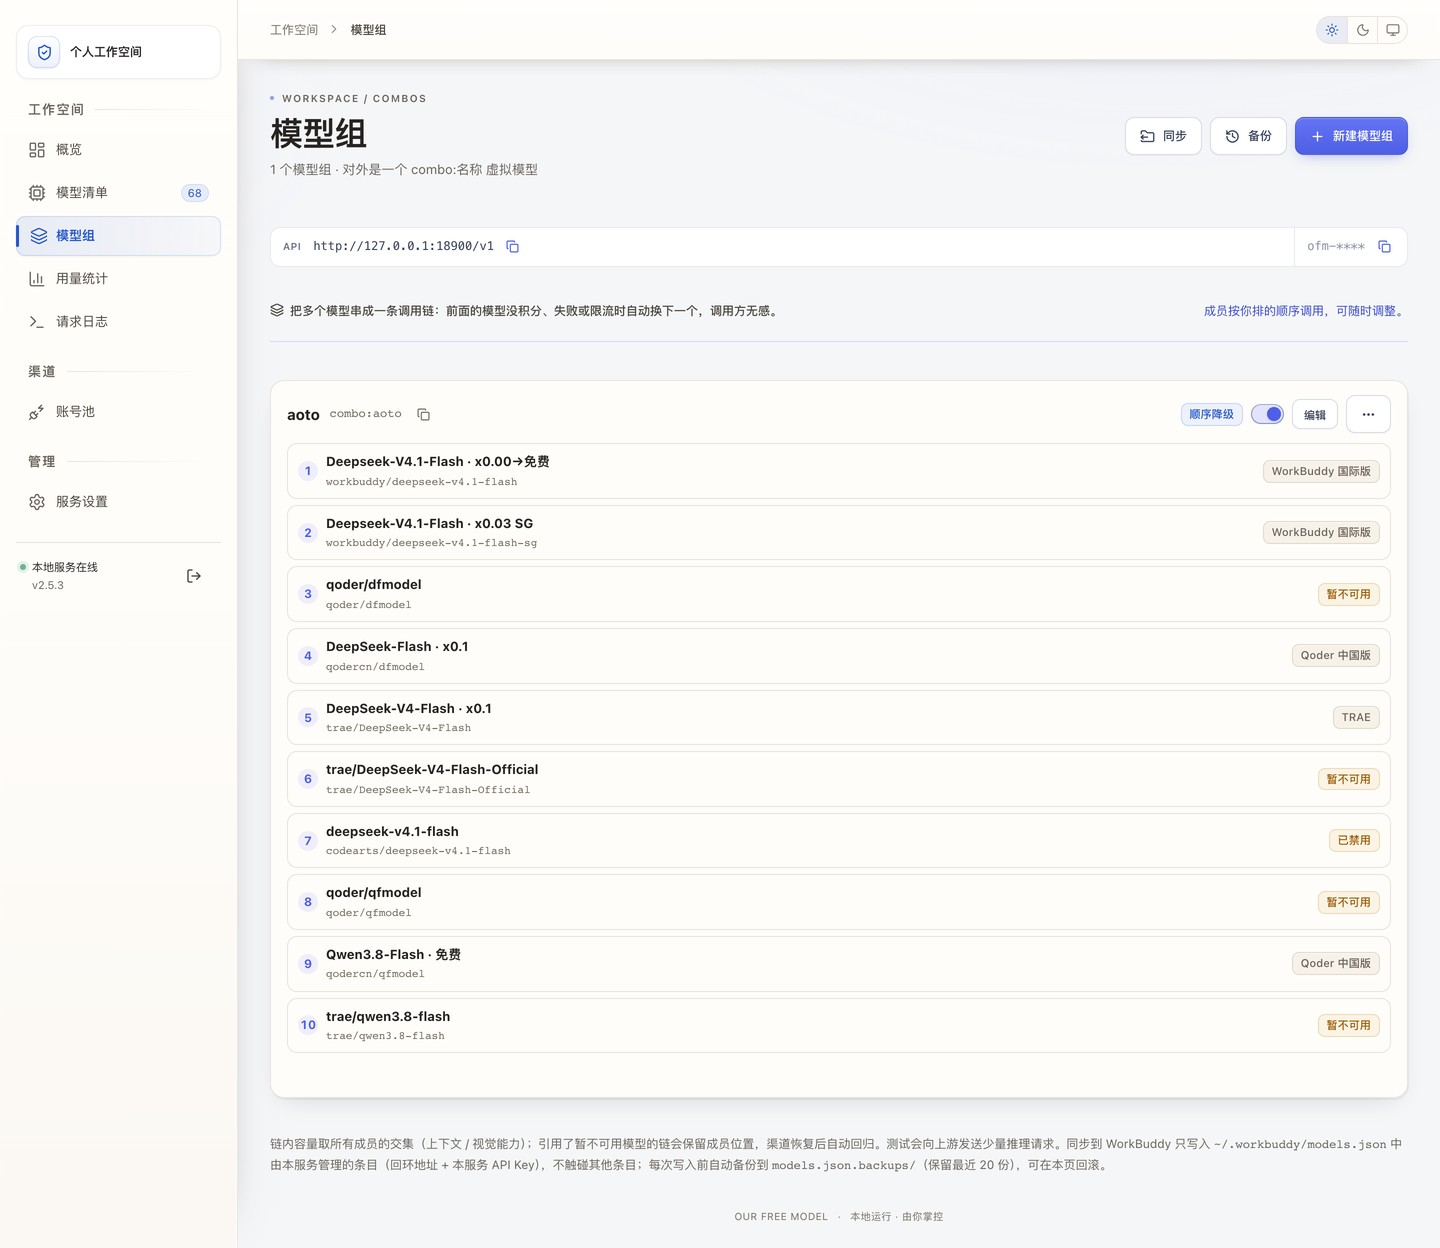
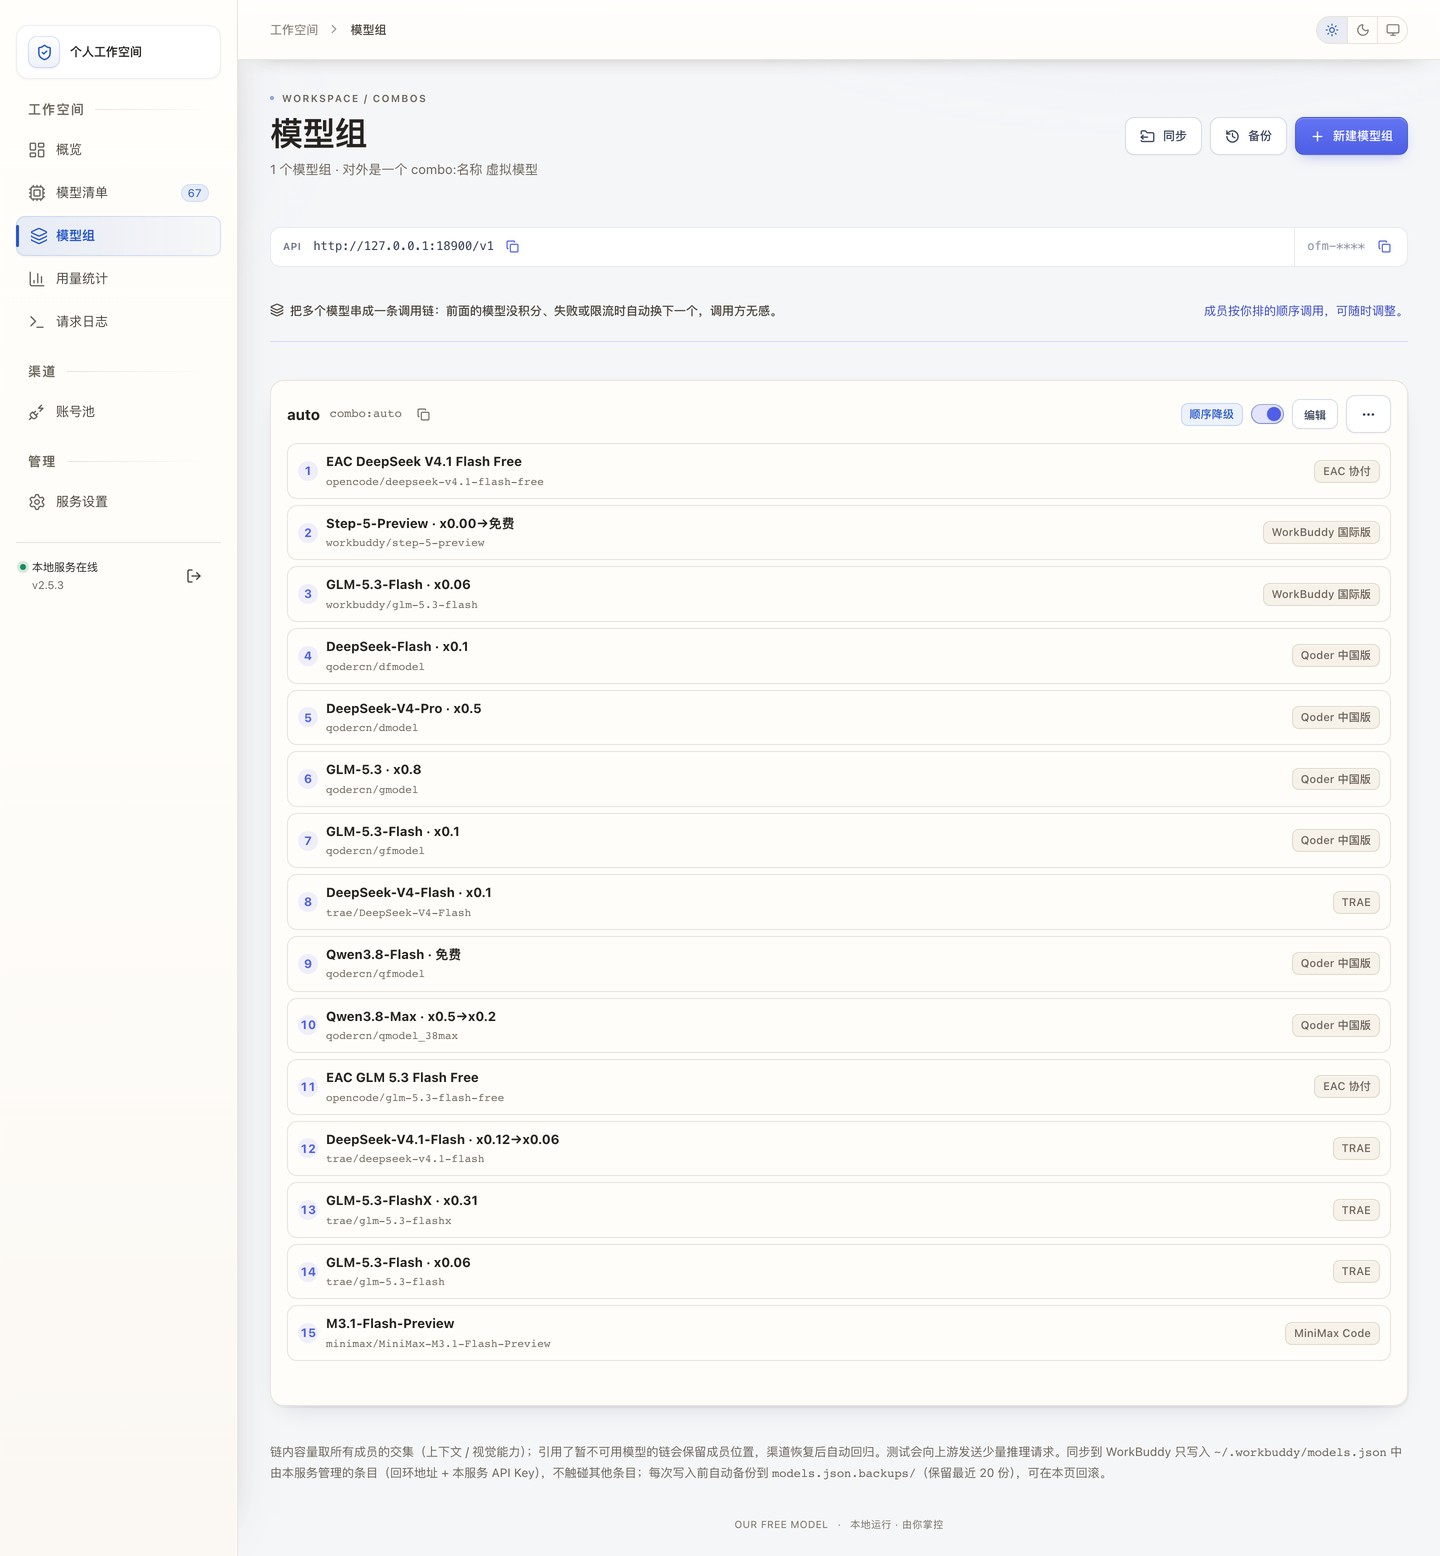
docs(images): 重截模型组截图，修正组名拼写 aoto → auto
旧图里的组名是 aoto / combo:aoto（拼错），实际配置是 auto / combo:auto，
图是在组名改过来之前截的，一直没更新。

- 重截模型组页：组名 auto / combo:auto，15 个成员全部展开
  （旧图只有 10 个，且带「暂不可用 / 已禁用」标签，与当前状态不符）
- README 对应说明同步：状态标签的描述改为「右侧带渠道标签」

diff --git a/README.md b/README.md
@@ -64,7 +64,7 @@
 
 ![Our Free Model 独立本地控制台 · 模型组配置页](docs/images/standalone-console-combos.jpg)
 
-*模型组页：每条链一张卡片，成员按调用顺序编号排列（可上下移）、逐条标注模型 ID 与来源渠道，暂不可用 / 已禁用 / 已启用的成员各自带状态标签；页头提供「同步」「备份」「新建模型组」*
+*模型组页：每条链一张卡片，成员按调用顺序编号排列（可上下移）、逐条标注模型 ID 与来源渠道，右侧带渠道标签；页头提供「同步」「备份」「新建模型组」*
 
 - 新增独立控制台「**模型组**」页（`packages/standalone/frontend/combos.tsx`，360 行）：  
   新建 / 编辑 / 删除 / 启停 / 测试，勾选模型、上下移调整调用顺序
